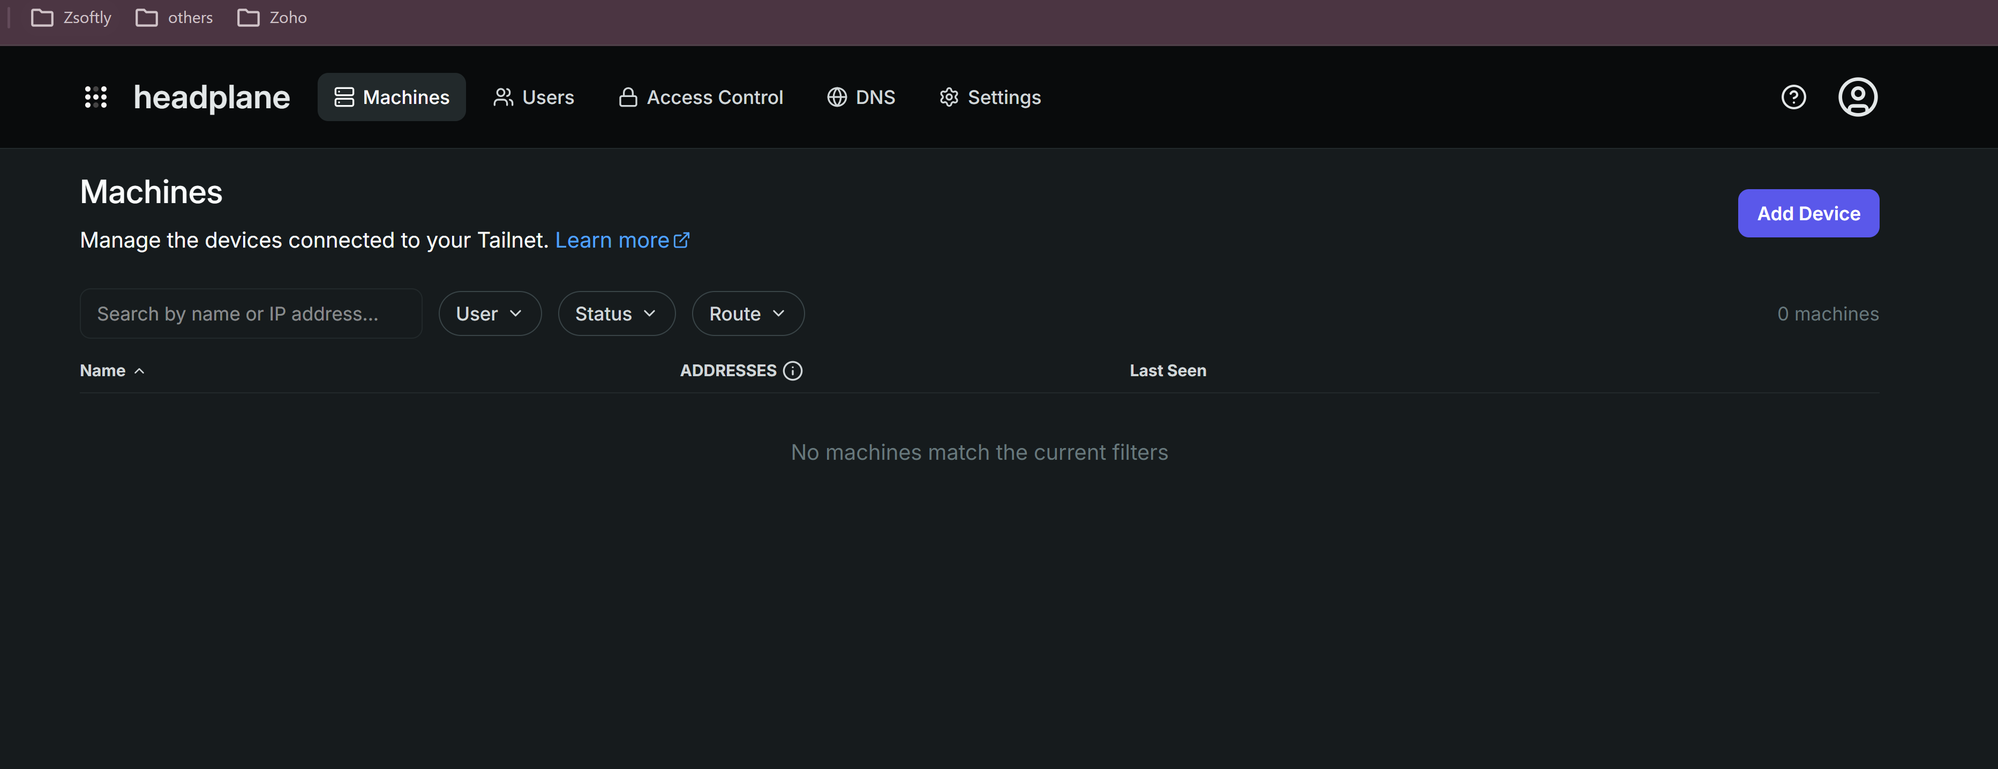
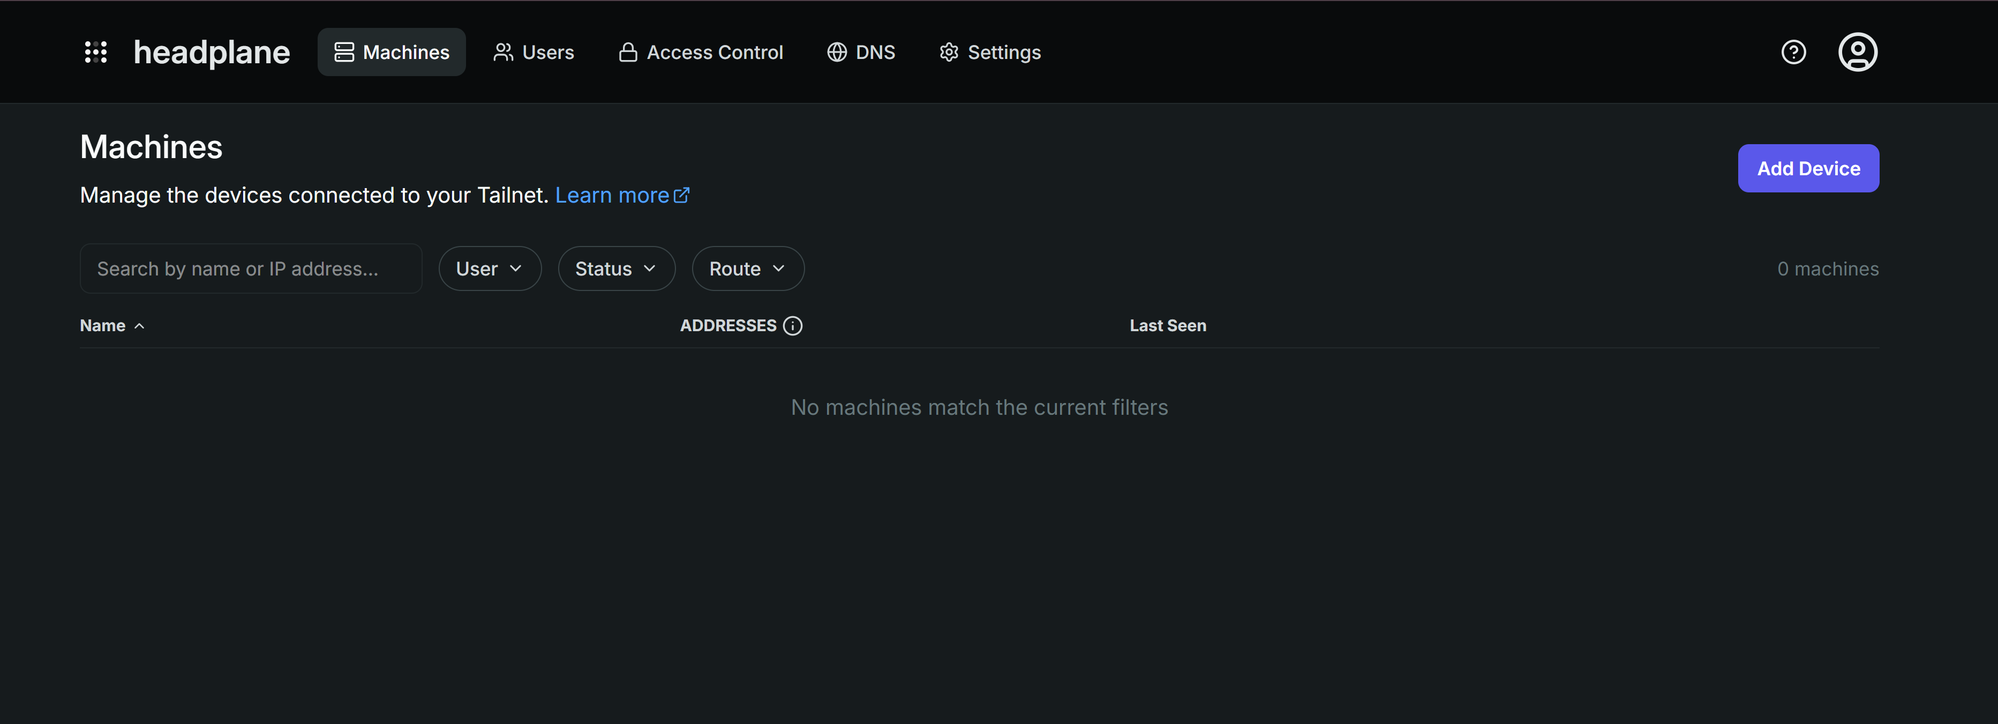
fix: correct SSH-lockdown/cleanup prose, crop leaked screenshots, drop dead assets

diff --git a/src/content/docs/tutorials/build-private-network-headscale.md b/src/content/docs/tutorials/build-private-network-headscale.md
@@ -115,10 +115,10 @@ You also need a **compute plan**, a **network plan**, a **VPC router plan**, and
 category**:
 
 ```bash
-zcp plan vm            # compute plans, e.g. ca2sm
-zcp plan network        # network plans, e.g. pnet-yul
-zcp plan router          # VPC router plan, e.g. virtual-private-cloud-vpc-1
-zcp storage-category list  # e.g. pro-nvme, ssd-storage, premium-ssd
+zcp plan vm                 # compute plans, e.g. ca2sm
+zcp plan network            # network plans, e.g. pnet-yul
+zcp plan router             # VPC router plan, e.g. virtual-private-cloud-vpc-1
+zcp storage-category list   # e.g. pro-nvme, ssd-storage, premium-ssd
 ```
 
 ## Step 4: Add your SSH key
@@ -157,15 +157,21 @@ bash <(curl -fsSL https://raw.githubusercontent.com/zsoftly/tools/main/zcp/build
   --ssh-key my-key --name my-workspace
 ```
 
+This tutorial uses `my-workspace` as the `--name` prefix throughout its command examples. The
+screenshots below are from an earlier test run with a different prefix, so the resource names you
+see in them won't match the command examples exactly. Your own resource names will differ from both,
+based on whatever `--name` you choose.
+
 The script picks up `ZCP_REGION` and `ZCP_PROJECT` from your shell if you exported them in Step 2.
 Pass `--region`/`--project` instead if you didn't.
 
-| Flag        | Purpose                                   | Default / requirement      |
-| ----------- | ----------------------------------------- | -------------------------- |
-| `--ssh-key` | Key name from Step 4, used for both VMs   | Required                   |
-| `--name`    | Prefix for every resource name it creates | `workspace`                |
-| `--region`  | zcp region slug                           | Required (flag or env var) |
-| `--project` | zcp project slug                          | Required (flag or env var) |
+| Flag         | Purpose                                   | Default / requirement      |
+| ------------ | ----------------------------------------- | -------------------------- |
+| `--ssh-key`  | Key name from Step 4, used for both VMs   | Required                   |
+| `--name`     | Prefix for every resource name it creates | `workspace`                |
+| `--region`   | zcp region slug                           | Required (flag or env var) |
+| `--project`  | zcp project slug                          | Required (flag or env var) |
+| `-y`/`--yes` | Skip the confirmation prompt below        | Off                        |
 
 The Headplane template, both compute plans, the network plan, the VPC router plan, and both storage
 categories are auto-discovered from your account. The script prints what it picked at the top of its
@@ -185,18 +191,25 @@ list.
 [INFO] Detecting your public IP...
 [INFO] Admin-port access scoped to: <your-ip>/32
 [INFO] Resolved resources:
-    Headplane template : zmi-headplane-070-ubuntu2404-100-1
-    Headplane plan      : ci2ls
+    Headplane template   : zmi-headplane-070-ubuntu2404-100-1
+    Headplane plan       : ci2ls
     Router template      : ubuntu-2404-lts-1
-    Router plan            : ci2ls
-    Network plan            : pnet-yul
-    VPC router plan          : virtual-private-cloud-vpc-1
-    VPC storage category      : pro-nvme
-    VM storage category        : pro-nvme
+    Router plan          : ci2ls
+    Network plan         : pnet-yul
+    VPC router plan      : virtual-private-cloud-vpc-1
+    VPC storage category : pro-nvme
+    VM storage category  : pro-nvme
+
+This creates a VPC, two VMs (plans above), and networking on your account now.
+Billing starts as soon as each resource is created.
+Type 'yes' to continue:
 ```
 
-The script takes several minutes. It waits for both VMs to boot, waits for Headplane's first-boot
-provisioning to finish, and waits for SSH before configuring anything over it.
+Unless you passed `-y`/`--yes`, the script stops here and waits for you to type `yes`. Everything
+above this point is read-only lookups, nothing has been created yet.
+
+The script then takes several minutes. It waits for both VMs to boot, waits for Headplane's
+first-boot provisioning to finish, and waits for SSH before configuring anything over it.
 
 ## What the script builds
 
@@ -206,10 +219,12 @@ provisioning to finish, and waits for SSH before configuring anything over it.
 port.**
 
 The script creates a VPC (`my-workspace`) and a network tier inside it (`my-workspace-tier`), with
-no public IP on the tier itself. Both VMs the script deploys get their own public IP, needed to
-reach Headscale and for the script to configure them over SSH. Headplane is the only one of the two
-with an internet-facing application port, opened deliberately through firewall and port-forward
-rules.
+no public IP on the tier itself. Both VMs the script deploys get their own public IP, and the script
+needs it to configure each one over SSH regardless. Beyond that, each VM needs it for a different
+reason. Headplane needs it because it _is_ the Headscale server: the router and your own device both
+reach it over that address. The router needs it too, but only during setup, to reach Headplane
+before it enrolls in the mesh. Headplane is the only one of the two with an internet-facing
+application port, opened deliberately through firewall and port-forward rules.
 
 :::note
 
@@ -224,7 +239,7 @@ billable extra IP. If it happens, `zcp ip release <slug>` cleans it up.
 **The ACL makes the tier private, not the VPC by itself.**
 
 The tier's default ACL permits everything. The script replaces it with one that only allows what the
-tier needs, then applies that ACL to the tier. A VPC alone doesn't guarantee isolation, the ACL
+tier needs, then applies that ACL to the tier. A VPC alone doesn't guarantee isolation. The ACL
 does.
 
 :::note
@@ -296,11 +311,16 @@ script's final summary prints this exact command with your real IP filled in.
 
 Marketplace App templates like this one get a default SSH firewall rule at deploy time, open to
 **any address** (`0.0.0.0/0`, both TCP and UDP port 22), an explicit rule visible in
-`zcp firewall list`. Not something you created, and not scoped to you. The script finds and deletes
-it, then adds a replacement scoped to your own IP.
+`zcp firewall list --ip <ip-slug>` (find the slug with `zcp ip list`). Not something you created,
+and not scoped to you. The script adds a replacement rule scoped to your own IP and confirms it
+exists before deleting the open one. That way, a failure partway through never leaves the VM
+unreachable over SSH.
 
-This is specific to Marketplace App templates. The subnet router, deployed from a plain OS image,
-never gets this default rule, so this lockdown step only applies to Headplane.
+The script runs this same routine on both VMs it creates, not just Headplane: add and confirm a rule
+scoped to your own IP, then remove any open `0.0.0.0/0` rule found. The subnet router, deployed from
+a plain OS image, may not have the default open rule Marketplace App templates get, but it still
+gets the scoped rule. It's the actual gateway into your private tier, so it needs to be locked down
+too, whatever its starting state.
 
 :::
 
@@ -377,16 +397,20 @@ zcp acl rules my-workspace my-workspace-acl
 ```
 
 ```text
-ID                                    NAME               STATE    PRIVATE IP  PUBLIC IP        REGION
-a1b2c3d4-...                          my-workspace-headscale       Running  10.0.0.214  198.51.100.10   YUL-1
-e5f6a7b8-...                          my-workspace-subnet-router   Running  10.0.0.76   198.51.100.11   YUL-1
+ID            NAME                        STATE    PRIVATE IP  PUBLIC IP      REGION
+a1b2c3d4-...  my-workspace-headscale      Running  10.0.0.214  198.51.100.10  YUL-1
+e5f6a7b8-...  my-workspace-subnet-router  Running  10.0.0.76   198.51.100.11  YUL-1
 ```
+
+`acl rules` takes the VPC's slug, not its name. They're the same on a clean account, but a name can
+get an auto-suffixed slug (`my-workspace-1`) if something else already used it. If the command above
+doesn't resolve, get the real slug from `zcp vpc list` first.
 
 ## Connect from your own machine
 
 The build script's own final summary already mints a fresh preauth key for your device. It prints a
 ready one-liner that installs Tailscale, if it isn't already installed, and registers it against
-your Headscale server in one step. This is the same `vpn/install.sh` script used for onboarding any
+your Headscale server in one step. This is the same `vpn/install.sh` script you'd use to onboard any
 other endpoint. Copy that line from your terminal output. It looks like this (key genericized, yours
 is a real value):
 
@@ -433,9 +457,9 @@ This has been observed on both the subnet router and plain clients.
 ## Verify isolation
 
 Reaching the subnet router's own tier IP in the previous section proves the router itself has no
-public exposure. It does not prove the tier as a whole is isolated: that traffic terminates directly
-at the router's WireGuard endpoint, which is a different path than reaching any _other_ VM on the
-tier through the router's forwarding.
+public exposure. It does not prove the tier as a whole is isolated. That traffic terminates directly
+at the router's WireGuard endpoint. Reaching any _other_ VM on the tier goes through the router's
+forwarding instead, a different path.
 
 For real proof, deploy a second VM the same way the script deployed the subnet router: its own
 public IP for setup, then attached to the tier. That public IP is only there so you can configure
@@ -448,6 +472,9 @@ zcp instance create --name isolation-check \
 
 zcp instance add-network isolation-check --network my-workspace-tier
 ```
+
+`add-network` also takes the tier's slug, not its name, the same caveat as above. Get it from
+`zcp network list` if the name alone doesn't resolve.
 
 SSH in over its own public IP and bring up the hot-added tier NIC the same way the script did for
 the router (see "The subnet router" above for why this manual step is needed):
@@ -477,11 +504,21 @@ That succeeds, through the mesh and the router's forwarding, not just to the rou
 Now try reaching the same tier IP from anywhere that never joined the mesh: your own home network, a
 different machine, anywhere on the public internet. It fails, every time. That address is private,
 with no public IP and no port-forward rule anywhere in this design. It was never internet-reachable
-in the first place, mesh or no mesh, which is the actual proof of isolation, not the mesh being what
-blocks it.
+in the first place, mesh or no mesh. That is the actual proof of isolation, not the mesh itself.
 
-Delete the second VM when you're done (`zcp instance delete <name>`). It's not part of the working
-setup, just a way to see this for yourself.
+Like every `--network-plan` deploy in this tutorial, `isolation-check` also created its own
+standalone network and pinned source-NAT IP. `instance delete` won't remove it, and the teardown
+script only manages resources under `--name my-workspace`, so it won't touch this one either.
+Capture that network's ID **before** deleting the VM, since the association disappears once the VM
+is gone:
+
+```bash
+zcp ip list -o json | jq -r '.[] | select(.vm=="isolation-check") | .network_id // empty' | head -1
+```
+
+Then delete the VM (`zcp instance delete isolation-check`). It's not part of the working setup, just
+a way to see this for yourself. Find the network that ID belongs to and remove it from the CMP web
+portal, the same way described in the Clean up caution below.
 
 ## Clean up
 
@@ -502,9 +539,18 @@ This does not always remove everything on its own. Each VM's deploy implicitly c
 standalone network, separate from the VPC and tier, and deleting the VM never removes that network
 or the source-NAT IP pinned to it. The script detects this and warns you with the network's ID, but
 it cannot delete it automatically. There's no `zcp` command that resolves that ID to something
-deletable. Before you consider cleanup done, check the script's output for this warning, and if it
-appears, remove the flagged network from the CMP web portal (search by the network ID it prints).
-Confirm nothing billable is left with `zcp instance list` and `zcp vpc list`.
+deletable. It also runs with no confirmation prompt of its own: every delete it issues happens
+immediately.
+
+A confirmed leftover always makes the script exit non-zero, so check `$?` after running it. A "can't
+verify" warning only does the same if it actually deleted something this run. If it deleted nothing
+because everything was already gone, that warning means "nothing here to check," not "you have a
+leftover," and the script exits 0. Either way, check its output for a leftover-network or
+cannot-verify warning before you consider cleanup done. If one appears, confirm what's left with
+`zcp ip list`. It carries the network ID you need, while `zcp network list` doesn't expose one to
+match against, which is also why the script can't delete this automatically. A leftover is a network
+and its pinned IP, not an instance or a VPC, so `zcp instance list`/`zcp vpc list` won't show it.
+Remove the flagged network from the CMP web portal (search by the network ID the script prints).
 
 :::
 
